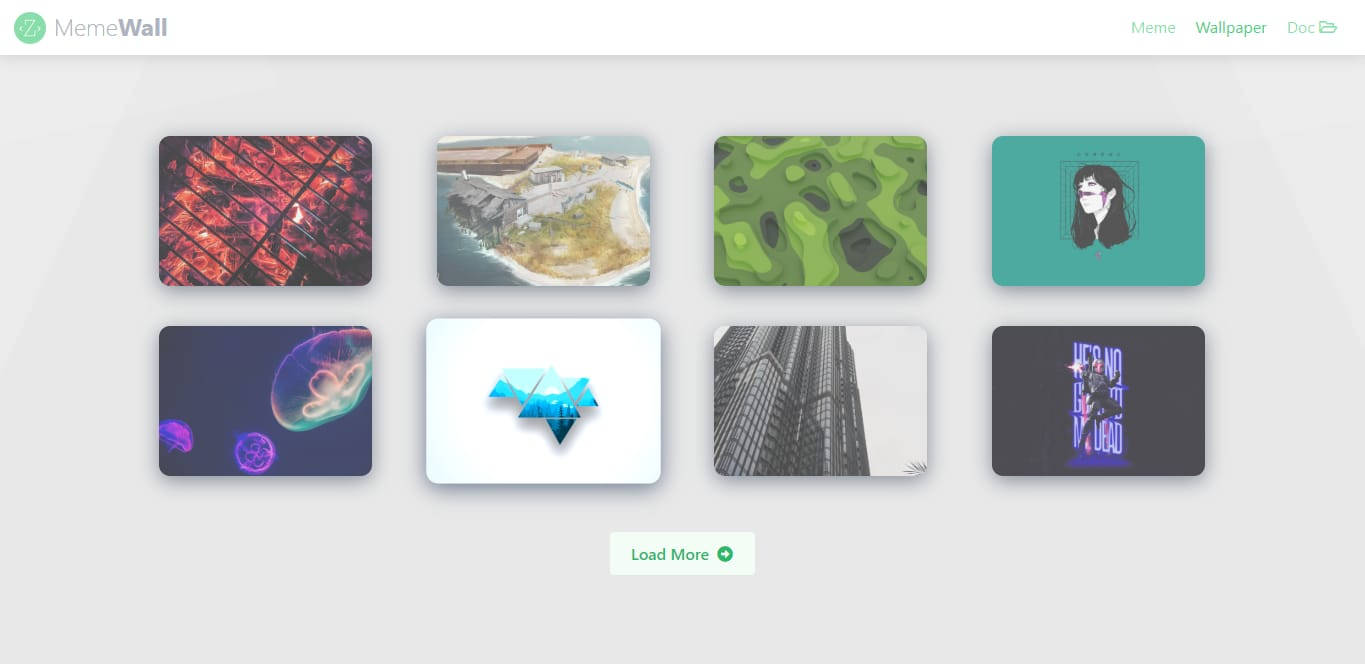
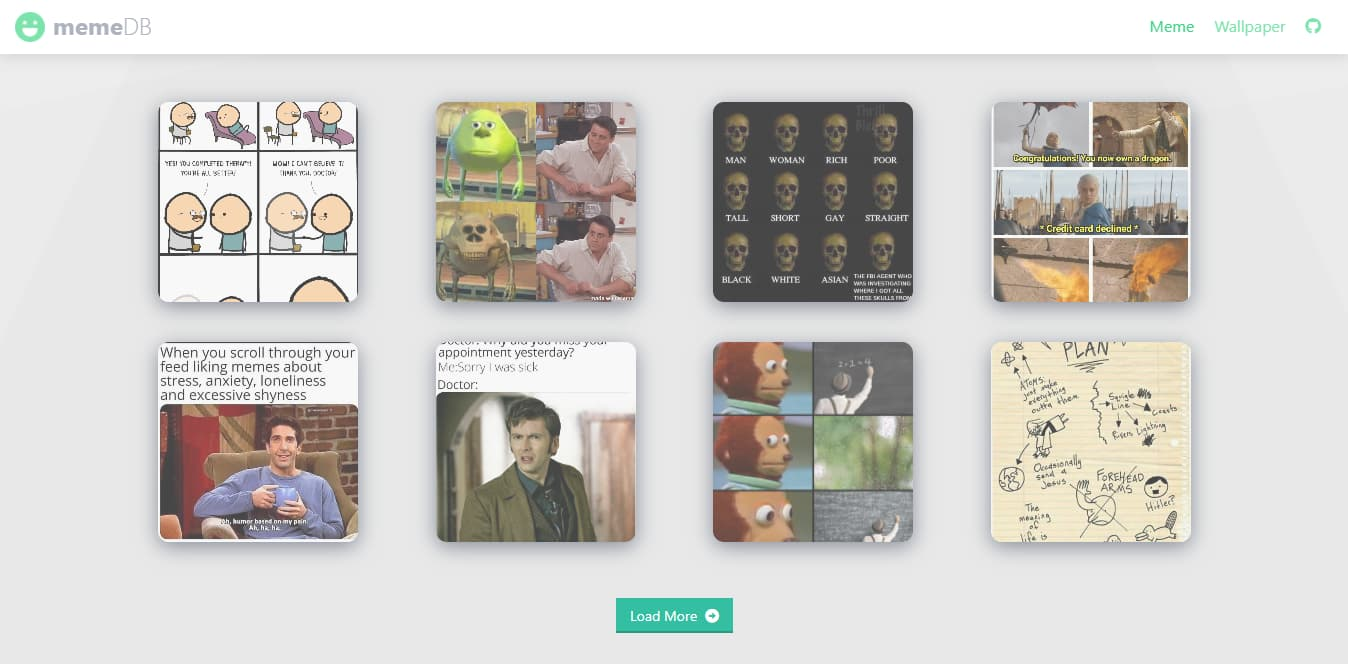
preview

diff --git a/src/components/Page.js b/src/components/Page.js
@@ -35,11 +35,14 @@ const Page = (props) => {
 
     //mounting
     useEffect(() => {
+        let postType = 'meme';
+
         if (props.location.pathname === '/wallpaper') {
+            postType = 'wallpaper';
             setType('wallpaper');
         }
 
-        fetchPostsOnce();
+        fetchPostsOnce(postType);
         return () => {
             // un-mounting
             signal.cancel('Api is being canceled');
@@ -73,7 +76,7 @@ const Page = (props) => {
     /**
      * fetch posts when page loads
      */
-    const fetchPostsOnce = async () => {
+    const fetchPostsOnce = async (postType) => {
         try {
             setIsPageLoading(true);
 
@@ -82,7 +85,7 @@ const Page = (props) => {
                 cancelToken: signal.token,
             }); */
 
-            var result = await redditImageFetcher.fetch({type: type, total: 8});
+            var result = await redditImageFetcher.fetch({type: postType, total: 8});
             if (typeof result !== 'undefined') {
                 setPosts(result);
                 setIsImageViewerOpen(false);
